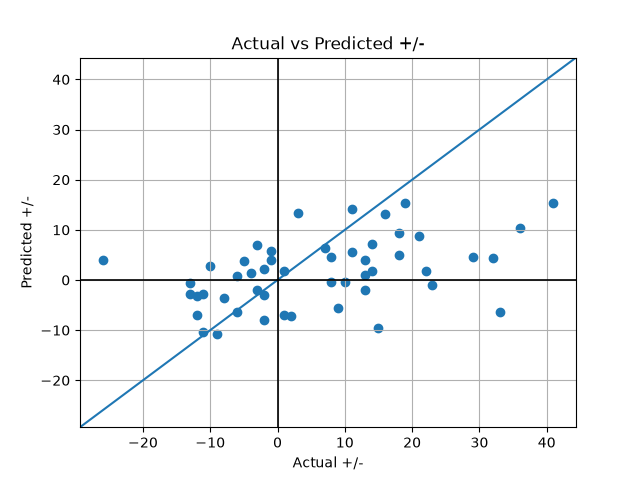
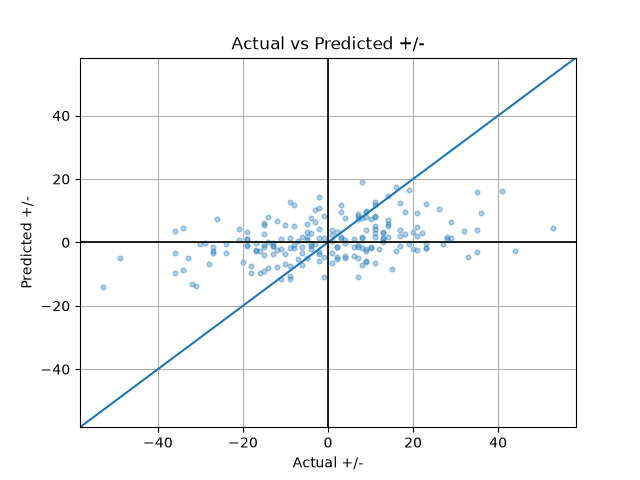
changed opaqueness and scatter size for scatterplot. increased test size back to 0.2

diff --git a/analysis.py b/analysis.py
@@ -7,7 +7,7 @@ predictions = data["prediction"]
 actual = data["actual"]
 
 fig, ax = plt.subplots()
-ax.scatter(actual, predictions)
+ax.scatter(actual, predictions, s=12, alpha=0.35)
 
 bounds = [np.min([ax.get_xlim(), ax.get_ylim()]),
                 np.max([ax.get_xlim(), ax.get_ylim()])]

diff --git a/model.py b/model.py
@@ -19,7 +19,7 @@ def createModel():
         X,
         y,
         game_ids,
-        test_size=0.05,
+        test_size=0.20,
         random_state=1
     )
 
